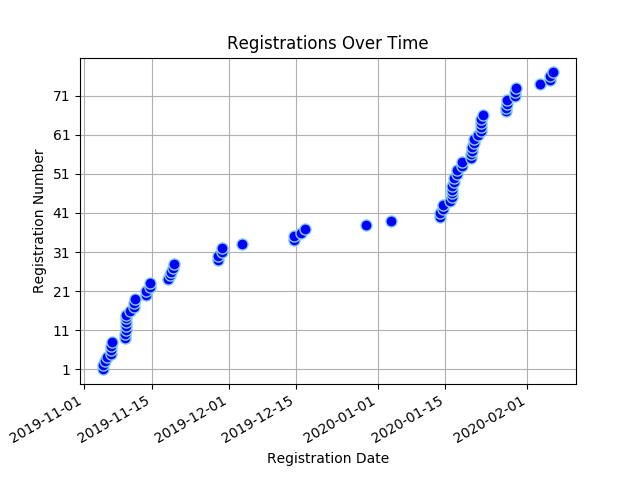
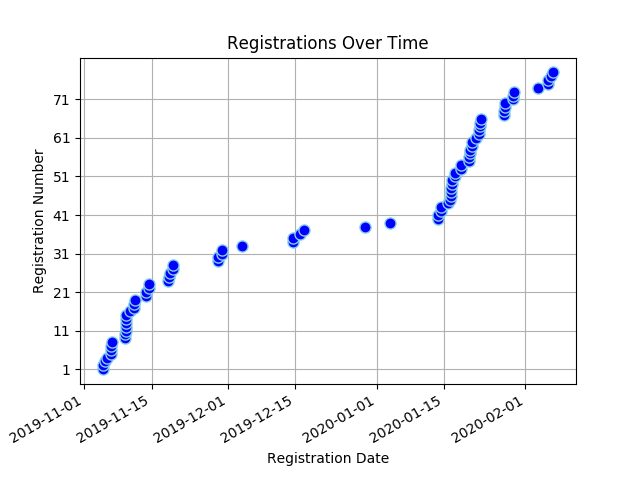
Registree stats backup on Thu Feb  6 22:01:55 SAST 2020

diff --git a/content/registrees/_index.md b/content/registrees/_index.md
@@ -3,9 +3,9 @@ title: Registration Stats
 draft: false
 ---
 
-<ul><li><strong>Number of Registrees</strong>: 77</li>
+<ul><li><strong>Number of Registrees</strong>: 78</li>
 
-<li><strong>Number of Clubs</strong>: 35</li>
+<li><strong>Number of Clubs</strong>: 36</li>
 
 <li><strong>Club With Most Attendees</strong>: Cape Of Good Hope (12 registrees)</li>
 </ul><h2>Registrees</h2>
@@ -30,6 +30,6 @@ draft: false
         </tr>
     </thead>
     <tbody>
-<tr><td>Valencia Beukes</td><td>Kuilsriver</td></tr><tr><td>Annette Bothma</td><td>Fish Hoek</td></tr><tr><td>Jose Braga Borges</td><td>Malmesbury</td></tr><tr><td>Nkandu Chapeshamano</td><td>Rustenburg</td></tr><tr><td>Lynnette Virginia Christians</td><td>Cape Of Good Hope</td></tr><tr><td>Sharon Cottle</td><td>Groote Schuur</td></tr><tr><td>Desiree Du Toit</td><td>Ramsgate</td></tr><tr><td>Charles Flanagan</td><td>Tokai</td></tr><tr><td>Julie Flanagan</td><td>Tokai</td></tr><tr><td>Allison Georges</td><td>Cape Of Good Hope</td></tr><tr><td>Valerie Graham</td><td>Nelspruit</td></tr><tr><td>Michael Graham</td><td>Nelspruit</td></tr><tr><td>Wendy Higgins</td><td>Wilro Park</td></tr><tr><td>Trevor Hobbs</td><td>North Durban</td></tr><tr><td>Avril Hobbs</td><td>North Durban</td></tr><tr><td>Jacqui Hocking</td><td>Midrand</td></tr><tr><td>Cliff Hocking</td><td>Midrand</td></tr><tr><td>Akinyemi Ismaila Tunde</td><td>Alberton</td></tr><tr><td>Dawid Jacobs</td><td>Durbanville</td></tr><tr><td>Brenda Joshua</td><td>Cape Of Good Hope</td></tr><tr><td>Charlotte Jubelin</td><td>Cape Of Good Hope</td></tr><tr><td>Pascal Kabangu</td><td>Cape Of Good Hope</td></tr><tr><td>Zwaai Krüger</td><td>Sedgefield</td></tr><tr><td>Bevil Lakay</td><td>Mitchells Plain</td></tr><tr><td>Paula Lang</td><td>Gordons Bay</td></tr><tr><td>James Malcolm Lang</td><td>Gordons Bay</td></tr><tr><td>Heather Lee</td><td>Cape Of Good Hope</td></tr><tr><td>Darrol Lee</td><td>Cape Of Good Hope</td></tr><tr><td>Nick Maré</td><td>Benoni Lakes</td></tr><tr><td>Beaulieu Maré</td><td>Benoni Lakes</td></tr><tr><td>Lance Maytham</td><td>Bredasdorp</td></tr><tr><td>David McCullough</td><td>Benoni Lakes</td></tr><tr><td>Gizella McCullough</td><td>Benoni Lakes</td></tr><tr><td>Mark Meltzer</td><td>The Wilds</td></tr><tr><td>Roy Michas</td><td>Midrand</td></tr><tr><td>Dawn Michas</td><td>Midrand</td></tr><tr><td>Patrick Mills</td><td>Centurion</td></tr><tr><td>Bernice Mills</td><td>Centurion</td></tr><tr><td>Brian Moses</td><td>Cape Of Good Hope</td></tr><tr><td>Alain Moulounda</td><td>Cape Of Good Hope</td></tr><tr><td>Michael Newlands</td><td>Port Alfred</td></tr><tr><td>Ramona Nulliah</td><td>Durban Host</td></tr><tr><td>Gary Nulliah</td><td>Durban Host</td></tr><tr><td>Jessica Philander</td><td>Cape Of Good Hope</td></tr><tr><td>Yvonne  Maureen Poyo</td><td>Cape Of Good Hope</td></tr><tr><td>Sharon Sampie</td><td>Bergvliet</td></tr><tr><td>Pinky Serobatse</td><td>(Partner in Service)</td></tr><tr><td>Susanna Helena Smit</td><td>Centurion</td></tr><tr><td>Herman Smit</td><td>Swellendam</td></tr><tr><td>Berdine Smit</td><td>(Partner in Service)</td></tr><tr><td>Bennie Smith</td><td>Wellington</td></tr><tr><td>Rochelle Smith</td><td>Cape Of Good Hope</td></tr><tr><td>Jeff Smith</td><td>Port Shepstone</td></tr><tr><td>Pierre Theron</td><td>Midrand</td></tr><tr><td>Moira Theron</td><td>Midrand</td></tr><tr><td>Alex Tshikala</td><td>Athlone</td></tr><tr><td>Alistair Tuckett</td><td>Roodepoort Clearwater Cyber</td></tr><tr><td>Gail Tuckett</td><td>Roodepoort Clearwater Cyber</td></tr><tr><td>Rowan Tuckett</td><td>Roodepoort Clearwater Cyber</td></tr><tr><td>Daniel Van Der Merwe</td><td>(Partner in Service)</td></tr><tr><td>Yolandi Van der Schyf</td><td>Midrand</td></tr><tr><td>Keith Weston</td><td>Scottburgh</td></tr><tr><td>Barbara Weston</td><td>Scottburgh</td></tr><tr><td>Joyce Wilcocks</td><td>Pretoria Jakaranda</td></tr><tr><td>Richard Williams</td><td>(Partner in Service)</td></tr><tr><td>Owolabi Williams Monzur</td><td>Badagry</td></tr><tr><td>Geila Wills</td><td>Cape Town</td></tr><tr><td>Judy Young</td><td>Durbanville</td></tr><tr><td>Sydney van Heerden</td><td>Wilro Park</td></tr><tr><td>Sandy van Heerden</td><td>Wilro Park</td></tr><tr><td>Deon van Wulven</td><td>Tygerberg Hills</td></tr><tr><td>Lindie van Wyk</td><td>Pretoria Jakaranda</td></tr><tr><td>Vicki van Wyk</td><td>North Durban</td></tr><tr><td>Kim van Wyk</td><td>North Durban</td></tr><tr><td>Patricia van Wyk</td><td>Pretoria Jakaranda</td></tr><tr><td>Willie van Wyk</td><td>Midrand</td></tr><tr><td>Martha Maria van der Merwe</td><td>Malmesbury</td></tr>
+<tr><td>Valencia Beukes</td><td>Kuilsriver</td></tr><tr><td>Annette Bothma</td><td>Fish Hoek</td></tr><tr><td>Jose Braga Borges</td><td>Malmesbury</td></tr><tr><td>Nkandu Chapeshamano</td><td>Rustenburg</td></tr><tr><td>Lynnette Virginia Christians</td><td>Cape Of Good Hope</td></tr><tr><td>Sharon Cottle</td><td>Groote Schuur</td></tr><tr><td>Desiree Du Toit</td><td>Ramsgate</td></tr><tr><td>Charles Flanagan</td><td>Tokai</td></tr><tr><td>Julie Flanagan</td><td>Tokai</td></tr><tr><td>Allison Georges</td><td>Cape Of Good Hope</td></tr><tr><td>Valerie Graham</td><td>Nelspruit</td></tr><tr><td>Michael Graham</td><td>Nelspruit</td></tr><tr><td>Wendy Higgins</td><td>Wilro Park</td></tr><tr><td>Trevor Hobbs</td><td>North Durban</td></tr><tr><td>Avril Hobbs</td><td>North Durban</td></tr><tr><td>Jacqui Hocking</td><td>Midrand</td></tr><tr><td>Cliff Hocking</td><td>Midrand</td></tr><tr><td>Akinyemi Ismaila Tunde</td><td>Alberton</td></tr><tr><td>Dawid Jacobs</td><td>Durbanville</td></tr><tr><td>Brenda Joshua</td><td>Cape Of Good Hope</td></tr><tr><td>Charlotte Jubelin</td><td>Cape Of Good Hope</td></tr><tr><td>Pascal Kabangu</td><td>Cape Of Good Hope</td></tr><tr><td>Zwaai Krüger</td><td>Sedgefield</td></tr><tr><td>Bevil Lakay</td><td>Mitchells Plain</td></tr><tr><td>Paula Lang</td><td>Gordons Bay</td></tr><tr><td>James Malcolm Lang</td><td>Gordons Bay</td></tr><tr><td>Heather Lee</td><td>Cape Of Good Hope</td></tr><tr><td>Darrol Lee</td><td>Cape Of Good Hope</td></tr><tr><td>Nick Maré</td><td>Benoni Lakes</td></tr><tr><td>Beaulieu Maré</td><td>Benoni Lakes</td></tr><tr><td>Lance Maytham</td><td>Bredasdorp</td></tr><tr><td>David McCullough</td><td>Benoni Lakes</td></tr><tr><td>Gizella McCullough</td><td>Benoni Lakes</td></tr><tr><td>Mark Meltzer</td><td>The Wilds</td></tr><tr><td>Roy Michas</td><td>Midrand</td></tr><tr><td>Dawn Michas</td><td>Midrand</td></tr><tr><td>Patrick Mills</td><td>Centurion</td></tr><tr><td>Bernice Mills</td><td>Centurion</td></tr><tr><td>Brian Moses</td><td>Cape Of Good Hope</td></tr><tr><td>Alain Moulounda</td><td>Cape Of Good Hope</td></tr><tr><td>Michael Newlands</td><td>Port Alfred</td></tr><tr><td>Ramona Nulliah</td><td>Durban Host</td></tr><tr><td>Gary Nulliah</td><td>Durban Host</td></tr><tr><td>Jessica Philander</td><td>Cape Of Good Hope</td></tr><tr><td>Yvonne  Maureen Poyo</td><td>Cape Of Good Hope</td></tr><tr><td>Sharon Sampie</td><td>Bergvliet</td></tr><tr><td>Pinky Serobatse</td><td>(Partner in Service)</td></tr><tr><td>Susanna Helena Smit</td><td>Centurion</td></tr><tr><td>Herman Smit</td><td>Swellendam</td></tr><tr><td>Berdine Smit</td><td>(Partner in Service)</td></tr><tr><td>Bennie Smith</td><td>Wellington</td></tr><tr><td>Rochelle Smith</td><td>Cape Of Good Hope</td></tr><tr><td>Jeff Smith</td><td>Port Shepstone</td></tr><tr><td>Pierre Theron</td><td>Midrand</td></tr><tr><td>Moira Theron</td><td>Midrand</td></tr><tr><td>Alex Tshikala</td><td>Athlone</td></tr><tr><td>Alistair Tuckett</td><td>Roodepoort Clearwater Cyber</td></tr><tr><td>Gail Tuckett</td><td>Roodepoort Clearwater Cyber</td></tr><tr><td>Rowan Tuckett</td><td>Roodepoort Clearwater Cyber</td></tr><tr><td>Daniel Van Der Merwe</td><td>(Partner in Service)</td></tr><tr><td>Yolandi Van der Schyf</td><td>Midrand</td></tr><tr><td>Keith Weston</td><td>Scottburgh</td></tr><tr><td>Barbara Weston</td><td>Scottburgh</td></tr><tr><td>Joyce Wilcocks</td><td>Pretoria Jakaranda</td></tr><tr><td>Richard Williams</td><td>(Partner in Service)</td></tr><tr><td>Owolabi Williams Monzur</td><td>Badagry</td></tr><tr><td>Geila Wills</td><td>Cape Town</td></tr><tr><td>Patricia Wilson</td><td>Kingsburgh</td></tr><tr><td>Judy Young</td><td>Durbanville</td></tr><tr><td>Sydney van Heerden</td><td>Wilro Park</td></tr><tr><td>Sandy van Heerden</td><td>Wilro Park</td></tr><tr><td>Deon van Wulven</td><td>Tygerberg Hills</td></tr><tr><td>Lindie van Wyk</td><td>Pretoria Jakaranda</td></tr><tr><td>Vicki van Wyk</td><td>North Durban</td></tr><tr><td>Kim van Wyk</td><td>North Durban</td></tr><tr><td>Patricia van Wyk</td><td>Pretoria Jakaranda</td></tr><tr><td>Willie van Wyk</td><td>Midrand</td></tr><tr><td>Martha Maria van der Merwe</td><td>Malmesbury</td></tr>
 </tbody>
 </table>

diff --git a/content/full_stats/_index.md b/content/full_stats/_index.md
@@ -11,18 +11,18 @@
 <body>
 <h1 style="color: #000000;">Full Registration Stats</h1>
 <ul><li><strong>Number of Registrees</strong><ul>
-<li><strong>Total</strong>: 77</li>
-<li><strong>Lions</strong>: 73</li>
+<li><strong>Total</strong>: 78</li>
+<li><strong>Lions</strong>: 74</li>
 <li><strong>Partners In Service</strong>: 4</li>
 </ul>
-<li><strong>Number of Clubs</strong>: 35</li>
+<li><strong>Number of Clubs</strong>: 36</li>
 <li><strong>Club With Most Attendees</strong>: Cape Of Good Hope (12 registrees)</li>
-<li><strong>Registrations</strong></li><ul><li><strong>Full</strong>: 75
+<li><strong>Registrations</strong></li><ul><li><strong>Full</strong>: 76
 <li><strong>Banquet</strong>: 1
 <li><strong>Convention</strong>: 0
 <li><strong>Theme</strong>: 1
 </ul><li><strong>Extra Items</strong></li><ul>
-<li><strong>Pins</strong>: 67
+<li><strong>Pins</strong>: 68
 </ul><li><strong>Extra Activities</strong></li><ul>
 <li><strong>MJF Lunch</strong>: 22
 <li><strong>PDG Breakfast</strong>: 19
@@ -32,9 +32,9 @@
 <li><strong>Service Project</strong>: 20
 <li><strong>Partner Program</strong>: 4
 </ul>
-<li><strong>Total Owed:</strong> R101010.00</li>
+<li><strong>Total Owed:</strong> R102350.00</li>
 <li><strong>Paid:</strong> R38985.00</li>
-<li><strong>Still Owed:</strong> R62025.00</li>
+<li><strong>Still Owed:</strong> R63365.00</li>
 <li><strong>Dietary Requirements</strong></li><ul>
 <li>Allergic to cheese and cream</li>
 <li>Allergic to chocolate, cheese, coffee and crayfish</li>
@@ -808,6 +808,17 @@ StillOwed
 <td>Geila Wills</td>
 <td>Cape Town</td>
 <td>PDG </td>
+<td>1340.00</td>
+<td>0.00</td>
+<td>1340.00</td>
+</tr>
+
+    
+<tr style="background-color: yellow">
+<td>86</td>
+<td>Patricia Wilson</td>
+<td>Kingsburgh</td>
+<td>Pat Wilson</td>
 <td>1340.00</td>
 <td>0.00</td>
 <td>1340.00</td>
